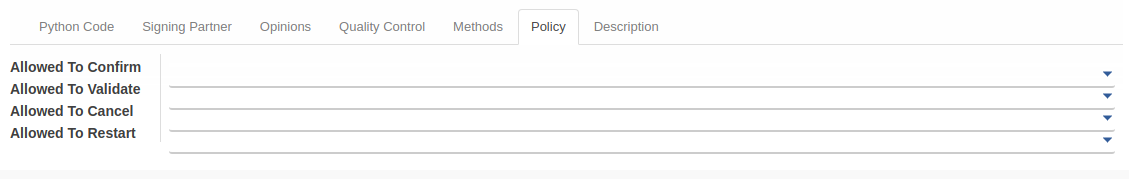
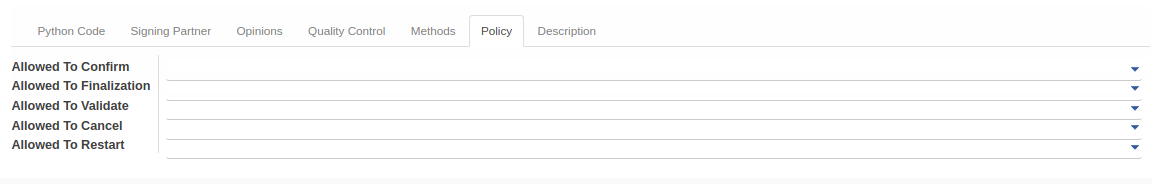
Konfigurasi dan Transaksi Task Penjelasan Accountant Service Task Penjelasan Assurance Report Task Melakukan Finalisasi Assurance Report Task Penjelasan Non-Assurance Report Task Melakukan Finalisasi Non-Assurance Report

diff --git a/src/konfigurasi/accountant-service/penjelasan.md b/src/konfigurasi/accountant-service/penjelasan.md
@@ -17,7 +17,7 @@ Informasi pada *Accountant Service* dibagi menjadi beberapa bagian, yaitu:
 
 #### <a name="field-name">Name</a>
 
-Nama accountant service.
+Nama jasa yang diberikan oleh akuntan.
 
 #### <a name="field-internal-ref">Internal Reference</a>
 
@@ -29,7 +29,7 @@ Penanda status accountant service aktif.
 
 #### <a name="field-assurance-service">Assurance Service</a>
 
-Penanda status assurance service aktif.
+Jasa assurance apabila aktif. Jasa non-assurance apabila tidak aktif.
 
 #### <a name="field-code">Code</a>
 
@@ -54,13 +54,17 @@ Kode Python untuk membuat nomor urut yang diinginkan.
 
 ![](../../img/accountant-service/tab-signing-partner.png)
 
+#### <a name="field-signing-partner-table">Tabel Signing Partner</a>
+
+Daftar akuntan publik yang diperbolehkan untuk bertanggung jawab terhadap jasa
+
 *Pop Up Signing Partner* saat *add an item* diklik.
 
 ![](../../img/accountant-service/tab-signing-partner-detail.png)
 
 #### <a name="field-signing-partner">Signing Partner</a>
 
-Partner yang ditunjuk.
+Nama akuntan publik.
 
 #### <a name="field-sequence">Sequence</a>
 
@@ -68,19 +72,23 @@ Nomor urut.
 
 #### <a name="field-allowed-to-confirm">Allowed To Confirm</a>
 
-Berhak/tidaknya user aktif untuk dapat mengkonfirmasi accountant service.
+Daftar kelompok pengguna yang diperbolehkan untuk mengkonfimasi accountant report dengan signing partner yang sesuai dengan isian Signing Partner dan jasa terkait.
+
+#### <a name="field-allowed-to-finalization">Allowed To Finalization</a>
+
+Daftar kelompok pengguna yang diperbolehkan untuk memfinalisasi accountant report dengan signing partner yang sesuai dengan isian Signing Partner dan jasa terkait.
 
 #### <a name="field-allowed-to-validate">Allowed To Validate</a>
 
-Berhak/tidaknya user aktif untuk dapat memvalidasi accountant service.
+Daftar kelompok pengguna yang diperbolehkan untuk memvalidasi accountant report dengan signing partner yang sesuai dengan isian Signing Partner dan jasa terkait.
 
 #### <a name="field-allowed-to-cancel">Allowed To Cancel</a>
 
-Berhak/tidaknya user aktif untuk dapat membatalkan accountant service.
+Daftar kelompok pengguna yang diperbolehkan untuk membatalkan accountant report dengan signing partner yang sesuai dengan isian Signing Partner dan jasa terkait.
 
 #### <a name="field-allowed-to-restart">Allowed To Restart</a>
 
-Berhak/tidaknya user aktif untuk dapat merestart accountant service.
+Daftar kelompok pengguna yang diperbolehkan untuk merestart accountant report dengan signing partner yang sesuai dengan isian Signing Partner dan jasa terkait.
 
 #### <a name="tab-opinions">TAB OPINIONS</a>
 
@@ -88,11 +96,19 @@ Berhak/tidaknya user aktif untuk dapat merestart accountant service.
 
 #### <a name="field-opinion-required">Opinion Required</a>
 
-Penanda dibutuhkan opinion aktif.
+Laporan akhir jasa membutuhkan opini apabila aktif. Laporan akhir jasa tidak membutuhkan opini apabila tidak aktif.
+
+#### <a name="field-opinion-table">Tabel Opinion</a>
+
+Daftar opini yang boleh diberikan terkait jasa.
 
 #### <a name="tab-quality-control">TAB QUALITY CONTROL</a>
 
 ![](../../img/accountant-service/tab-quality-control.png)
+
+#### <a name="field-quality-control-table">Tabel Quality Control</a>
+
+Daftar item-item yang harus diuji terhadap laporan akhir jasa.
 
 *Pop Up Questions* saat *add an item* diklik.
 
@@ -137,7 +153,11 @@ Penanda jawaban yang benar.
 
 #### <a name="field-method-required">Method Required</a>
 
-Penanda dibutuhkan metode aktif.
+Penyelesaian jasa membutuhkan penggunaan metode tertentu apabila aktif. Penyelesaian jasa tidak membutuhkan penggunaan metode tertentu apabila tidak aktif.
+
+#### <a name="field-method-table">Tabel Method</a>
+
+Daftar metode yang dapat dipergunakan untuk menyelesaikan jasa.
 
 #### <a name="tab-policy">TAB POLICY</a>
 
@@ -145,19 +165,23 @@ Penanda dibutuhkan metode aktif.
 
 #### <a name="field-allowed-confirm">Allowed To Confirm</a>
 
-Berhak/tidaknya user aktif untuk dapat mengkonfirmasi accountant service.
+Daftar kelompok pengguna yang diperbolehkan untuk mengkonfimasi accountant report dengan jasa terkait.
+
+#### <a name="field-allowed-finalization">Allowed To Finalization</a>
+
+Daftar kelompok pengguna yang diperbolehkan untuk memfinalisasi accountant report dengan jasa terkait.
 
 #### <a name="field-allowed-validate">Allowed To Validate</a>
 
-Berhak/tidaknya user aktif untuk dapat memvalidasi accountant service.
+Daftar kelompok pengguna yang diperbolehkan untuk memvalidasi accountant report dengan jasa terkait.
 
 #### <a name="field-allowed-cancel">Allowed To Cancel</a>
 
-Berhak/tidaknya user aktif untuk dapat membatalkan accountant service.
+Daftar kelompok pengguna yang diperbolehkan untuk membatalkan accountant report dengan jasa terkait.
 
 #### <a name="field-allowed-restart">Allowed To Restart</a>
 
-Berhak/tidaknya user aktif untuk dapat merestart accountant service.
+Daftar kelompok pengguna yang diperbolehkan untuk merestart accountant report dengan jasa terkait.
 
 #### <a name="tab-description">TAB DESCRIPTION</a>
 

diff --git a/src/transaksi/assurance-report/melakukan-finalisasi.md b/src/transaksi/assurance-report/melakukan-finalisasi.md
@@ -1,0 +1,31 @@
+# Melakukan Finalisasi Assurance Report
+
+* Data Assurance Report yang akan dilakukan finalisasi harus memiliki status **Waiting For Approval**.
+
+![](../../img/assurance-report/status-waiting-for-approval.png)
+
+* User yang akan melakukan finalisasi harus memiliki akses untuk melakukan finalisasi *Assurance Report*.
+
+## B. INSTRUKSI KERJA
+
+1. Buka menu **Accountant Report -> Accountant Report -> Assurance**. Abaikan jika sudah berada pada menu yang dimaksud.
+2. Buka data *Assurance Report* yang akan dilakukan finalisasi. Abaikan jika data sudah dibuka.
+3. Beralih ke tab [Quality Control](./penjelasan.md#tab-quality-control)
+4. Klik tombol **Edit** pada bagian atas-kiri form.
+
+![](../../img/assurance-report/tombol-edit-finalization.png)
+
+5. Jawab pertanyaan tiap data item **[Question](./penjelasan.md#field-question)** pada tabel **[Quality Control](./penjelasan.md#tab-quality-control)**. <a name="l5">[Pilih jawaban](./memilih-jawaban-qualitative.md) apabila isian **Type** == Qualitative atau <a name="l5">[Isi jawaban](./mengisi-jawaban-quantitative.md) jika isian **Type** == Quantitative. Ulangi sampai semua jawaban sesuai dengan keadaan.
+6. Klik tombol **Save** pada bagian atas-kiri form.
+
+![](../../img/assurance-report/tombol-simpan-finalization.png)
+
+7. Klik tombol **Finalization** pada bagian atas-kiri form.
+
+![](../../img/assurance-report/tombol-finalization.png)
+
+## C. OUTPUT
+
+* Status *Assurance Report* akan berubah menjadi **Finalization** jika seluruh jawaban atas item pertanyaan **[Success?](./penjelasan.md#field-question)** telah sesuai.
+
+![](../../img/assurance-report/status-finalization.png)

diff --git a/src/transaksi/non-assurance-report/melakukan-finalisasi.md b/src/transaksi/non-assurance-report/melakukan-finalisasi.md
@@ -1,0 +1,30 @@
+# Melakukan Finalisasi Non-Assurance Report
+
+* Data Non-Assurance Report yang akan dilakukan finalisasi harus memiliki status **Waiting For Approval**.
+
+![](../../img/non-assurance-report/status-waiting-for-approval.png)
+
+
+## B. INSTRUKSI KERJA
+
+1. Buka menu **Accountant Report -> Accountant Report -> Non-Assurance**. Abaikan jika sudah berada pada menu yang dimaksud.
+2. Buka data *Non-Assurance Report* yang akan dilakukan finalisasi. Abaikan jika data sudah dibuka.
+3. Klik tombol **Edit** pada bagian atas-kiri form.
+
+![](../../img/non-assurance-report/tombol-edit-finalization.png)
+
+4. Beralih ke tab [Quality Control](./penjelasan.md#tab-quality-control)
+5. Jawab pertanyaan tiap data item **[Question](./penjelasan.md#field-question)** pada tabel **[Quality Control](./penjelasan.md#tab-quality-control)**. <a name="l5">[Pilih jawaban](./memilih-jawaban-qualitative.md) apabila isian **Type** == Qualitative atau <a name="l5">[Isi jawaban](./mengisi-jawaban-quantitative.md) jika isian **Type** == Quantitative. Ulangi sampai semua jawaban sesuai dengan keadaan.
+6. Klik tombol **Save** pada bagian atas-kiri form.
+
+![](../../img/non-assurance-report/tombol-simpan-finalization.png)
+
+7. Klik tombol **Finalization** pada bagian atas-kiri form.
+
+![](../../img/non-assurance-report/tombol-finalization.png)
+
+## C. OUTPUT
+
+* Status *Non-Assurance Report* akan berubah menjadi **Finalization** jika seluruh jawaban atas item pertanyaan **[Success?](./penjelasan.md#field-question)** telah sesuai.
+
+![](../../img/non-assurance-report/status-finalization.png)

diff --git a/src/SUMMARY.md b/src/SUMMARY.md
@@ -52,6 +52,7 @@
         - [Memodifikasi Assurance Report](./transaksi/assurance-report/memodifikasi.md)    
         - [Menghapus Assurance Report](./transaksi/assurance-report/menghapus.md)    
         - [Mengkonfirmasi Assurance Report](./transaksi/assurance-report/mengkonfirmasi.md)    
+        - [Melakukan Finalisasi Assurance Report](./transaksi/assurance-report/melakukan-finalisasi.md)
         - [Memvalidasi Assurance Report](./transaksi/assurance-report/memvalidasi.md)    
         - [Memilih Jawaban Item Pertanyaan Qualitative](./transaksi/assurance-report/memilih-jawaban-qualitative.md)
         - [Mengisi Jawaban Item Pertanyaan Quantitative](./transaksi/assurance-report/mengisi-jawaban-quantitative.md)
@@ -63,6 +64,7 @@
         - [Memodifikasi Non-Assurance Report](./transaksi/non-assurance-report/memodifikasi.md)        
         - [Menghapus Non-Assurance Report](./transaksi/non-assurance-report/menghapus.md)        
         - [Mengkonfirmasi Non-Assurance Report](./transaksi/non-assurance-report/mengkonfirmasi.md)        
+        - [Melakukan Finalisasi Non-Assurance Report](./transaksi/non-assurance-report/melakukan-finalisasi.md)
         - [Memvalidasi Non-Assurance Report](./transaksi/non-assurance-report/memvalidasi.md)
         - [Memilih Jawaban Item Pertanyaan Qualitative](./transaksi/non-assurance-report/memilih-jawaban-qualitative.md)
         - [Mengisi Jawaban Item Pertanyaan Quantitative](./transaksi/non-assurance-report/mengisi-jawaban-quantitative.md)     

diff --git a/src/transaksi/assurance-report/penjelasan.md b/src/transaksi/assurance-report/penjelasan.md
@@ -81,6 +81,10 @@ Nama akuntan yang ditugaskan.
 
 Penanda status dibutuhkan opini aktif.
 
+#### <a name="field-draft-report-attachment">Draft Report Attachment</a>
+
+Lampiran draft laporan.
+
 #### <a name="field-main-report-attachment">Main Report Attachment</a>
 
 Lampiran laporan utama.

diff --git a/src/transaksi/non-assurance-report/penjelasan.md b/src/transaksi/non-assurance-report/penjelasan.md
@@ -85,6 +85,10 @@ Penanda status dibutuhkan opini aktif.
 
 Nama opini.
 
+#### <a name="field-draft-report-attachment">Draft Report Attachment</a>
+
+Lampiran draft laporan.
+
 #### <a name="field-main-report-attachment">Main Report Attachment</a>
 
 Lampiran laporan utama.
